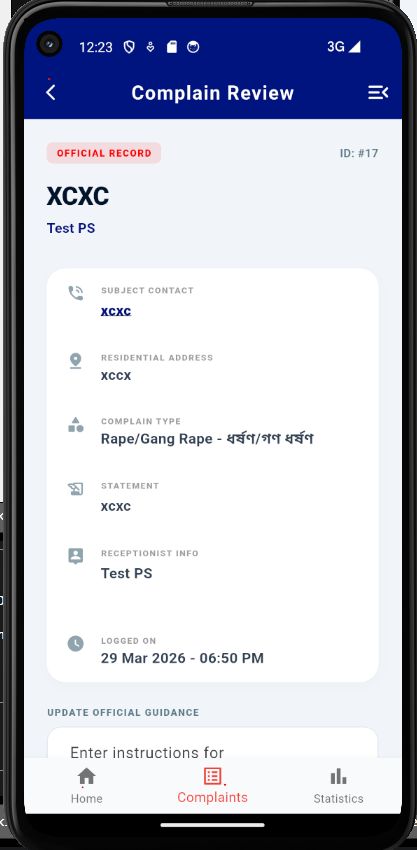
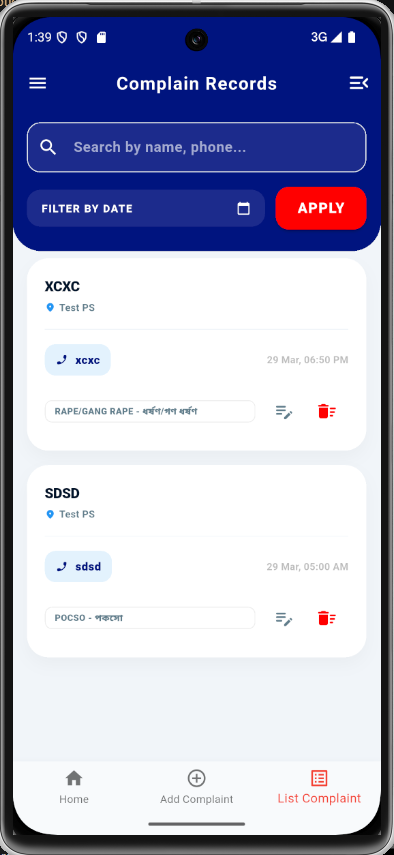
Fix editability vulnerability and correctly store/display receptionist info

diff --git a/flutter-reception-app/lib/views/admin/add_complaint.dart b/flutter-reception-app/lib/views/admin/add_complaint.dart
@@ -74,6 +74,10 @@ class _AddComplaintScreenState extends State<AddComplaintScreen> {
 
     setState(() => _isSubmitting = true);
     try {
+      SharedPreferences prefs = await SharedPreferences.getInstance();
+      String recName = prefs.getString('receptionist_name') ?? 'Unknown';
+      String recMobile = prefs.getString('receptionist_mobile') ?? 'N/A';
+
       await _complaintsService.storeComplaint(
         name: _nameController.text,
         phone: _phoneController.text,
@@ -81,6 +85,8 @@ class _AddComplaintScreenState extends State<AddComplaintScreen> {
         subCategoryId: _selectedSubCategoryId!,
         policeStationId: _selectedStationId!,
         description: _descriptionController.text,
+        receptionistName: recName,
+        receptionistMobile: recMobile,
       );
       ScaffoldMessenger.of(context).showSnackBar(const SnackBar(content: Text('Complain registered successfully')));
       Navigator.pushReplacementNamed(context, '/list_complaint');

diff --git a/flutter-reception-app/lib/controllers/complaints_service.dart b/flutter-reception-app/lib/controllers/complaints_service.dart
@@ -80,6 +80,8 @@ class ComplaintsService {
     required int subCategoryId,
     String? description,
     required int policeStationId,
+    required String receptionistName,
+    required String receptionistMobile,
   }) async {
     try {
       final response = await ApiService.post('complaints', {
@@ -89,6 +91,8 @@ class ComplaintsService {
         'sub_category_id': subCategoryId,
         'description': description ?? '',
         'police_station_id': policeStationId,
+        'receptionist_name': receptionistName,
+        'receptionist_mobile': receptionistMobile,
       });
 
       if (response.statusCode == 201) {

diff --git a/flutter-reception-app/lib/views/admin/complaint_detail.dart b/flutter-reception-app/lib/views/admin/complaint_detail.dart
@@ -227,7 +227,7 @@ class _ComplaintDetailScreenState extends State<ComplaintDetailScreen> {
           _buildInfoRow(Icons.description_outlined, "Complain Description", _complaint['description'], isLongText: true),
           _buildDivider(),
           _buildInfoRow(Icons.person_pin_rounded, "Receptionist Info", 
-            "${_complaint['receptionist']?['name'] ?? 'N/A'} (${_complaint['receptionist']?['phone_number'] ?? 'N/A'})", isLongText: true),
+            "${_complaint['receptionist_name'] ?? _complaint['receptionist']?['name'] ?? 'N/A'} (${_complaint['receptionist_mobile'] ?? _complaint['receptionist']?['phone_number'] ?? 'N/A'})", isLongText: true),
           _buildDivider(),
           _buildInfoRow(Icons.event_available_rounded, "Registration Date", formatTimestamp(_complaint['created_at'])),
         ],

diff --git a/flutter-reception-app/lib/views/admin/superior_complaint_detail.dart b/flutter-reception-app/lib/views/admin/superior_complaint_detail.dart
@@ -254,7 +254,7 @@ class _SuperiorComplaintDetailScreenState extends State<SuperiorComplaintDetailS
           _buildInfoRow(Icons.category_rounded, "Complain Type", _complaint['sub_category']?['name']),
           _buildInfoRow(Icons.history_edu_rounded, "Statement", _complaint['description'], isLongText: true),
           _buildInfoRow(Icons.person_pin_rounded, "Receptionist Info", 
-            "${_complaint['receptionist']?['name'] ?? 'N/A'} (${_complaint['receptionist']?['phone_number'] ?? 'N/A'})", isLongText: true),
+            "${_complaint['receptionist_name'] ?? _complaint['receptionist']?['name'] ?? 'N/A'} (${_complaint['receptionist_mobile'] ?? _complaint['receptionist']?['phone_number'] ?? 'N/A'})", isLongText: true),
           _buildInfoRow(Icons.watch_later_rounded, "Logged On", formatTimestamp(_complaint['created_at'])),
         ],
       ),

diff --git a/database/migrations/2026_03_29_000001_add_receptionist_details_to_complaints_table.php b/database/migrations/2026_03_29_000001_add_receptionist_details_to_complaints_table.php
@@ -1,0 +1,29 @@
+<?php
+
+use Illuminate\Database\Migrations\Migration;
+use Illuminate\Database\Schema\Blueprint;
+use Illuminate\Support\Facades\Schema;
+
+return new class extends Migration
+{
+    /**
+     * Run the migrations.
+     */
+    public function up(): void
+    {
+        Schema::table('complaints', function (Blueprint $table) {
+            $table->string('receptionist_name')->nullable()->after('receptionist_id');
+            $table->string('receptionist_mobile')->nullable()->after('receptionist_name');
+        });
+    }
+
+    /**
+     * Reverse the migrations.
+     */
+    public function down(): void
+    {
+        Schema::table('complaints', function (Blueprint $table) {
+            $table->dropColumn(['receptionist_name', 'receptionist_mobile']);
+        });
+    }
+};

diff --git a/app/Http/Controllers/Api/ComplaintApiController.php b/app/Http/Controllers/Api/ComplaintApiController.php
@@ -53,6 +53,8 @@ class ComplaintApiController extends Controller
             'police_station_id' => $request->police_station_id,
             'description' => $request->description,
             'receptionist_id' => auth()->id(),
+            'receptionist_name' => $request->receptionist_name,
+            'receptionist_mobile' => $request->receptionist_mobile,
             'is_editable' => true,
         ]);
 

diff --git a/app/Models/Complaint.php b/app/Models/Complaint.php
@@ -13,6 +13,8 @@ class Complaint extends Model
         'sub_category_id',
         'description',
         'receptionist_id',
+        'receptionist_name',
+        'receptionist_mobile',
         'police_station_id',
         'is_editable',
         'note',